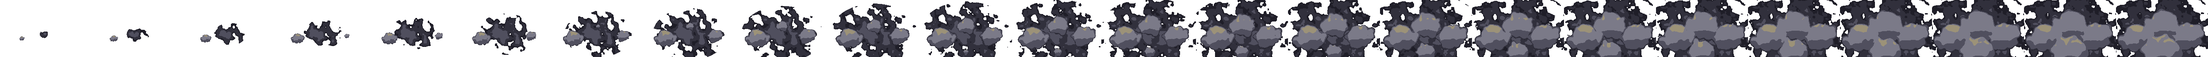
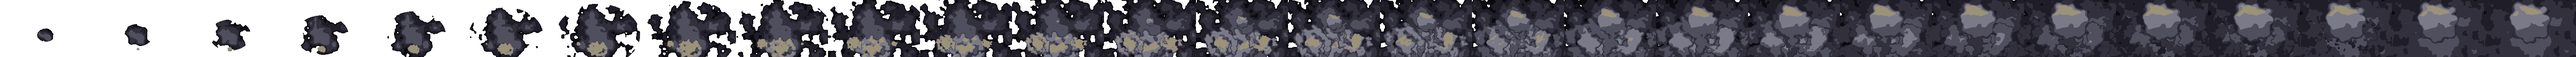
Camp trip smoke: a bigger, layered eruption (PixelLab VFX 'Camp smoke surge', 28 frames) instead of the flat clouds; 2.8 s each way

diff --git a/tools/art/gen_camp.py b/tools/art/gen_camp.py
@@ -123,7 +123,7 @@ def smoke_sheet():
 
 
 def cloud_sheet():
-    """art/camp/cloud_sheet.png: the VFX tool's 'Camp smoke cloud' (billows of dark smoke growing across the whole view until it is thick, one-shot, 24
+    """art/camp/cloud_sheet.png: the VFX tool's 'Camp smoke surge' (smoke erupting from the bottom of the view in layers of dark billows until it fills it, one-shot, 28
     frames, 10 fps, 208x130 shown at 2x over the 416x260 view) as one row of frames at full canvas size, blank frames at the end dropped. Played
     forward when the party leaves for camp (camp_transition.gd) and backward as they arrive. Palette-snapped. Source: pieces/camp/cloud.png + .json."""
     atlas = Image.open(PIECES / "cloud.png").convert("RGBA")

diff --git a/CLAUDE.md b/CLAUDE.md
@@ -207,7 +207,7 @@ So the overlay, HUD and level-complete scenes can be deleted from `main.tscn` wi
 
 **Making camp** (roadmap 7h.2; rules in `docs/combat_design.md` "Making camp"): `data/items/bedroll.tres` (`ItemDef.makes_camp`, consumable, stacks to 3) used from a hand, a quick slot or the pack goes through `Party.use_item` -> `Party._bedroll`, which asks `Party.camp_refusal()` (not in a fight, no living monster within 4 tiles or in sight within 12, no ambush trigger within 2; the refusal lines are narrator voice, 35 characters) and then `Camp.begin()` (`scripts/camp.gd`, a CanvasLayer 3 node `Camp` that `game_view.gd` adds, group `camp`). The camp screen covers the 3D view (near-black, a 2D fire from `art/camp/` with the same layers as the 3D camp, four bedroll buttons: click one and `inventory.show_screen(slot, true)` opens that hero's pack and sheet; the corner map is hidden meanwhile), `rest_to(fraction)` climbs HP (whole points, `Party.heal(..., "rest")`) and mana evenly over `REST_SECONDS` 30, `begin` clears shaken, sickness, recasts and a running meal (its remaining healing at once), `Party.camping` stops `_tick_lights`, `_tick_food`, mana regeneration and `light_field.gd`. It ends at 30 s, by Stop, by `Player.command` (`Camp.consumes_move`: any step or turn ends it and goes no further, with a 0.35 s lock) or when `Party.fight.in_fight` (interrupted), sends `GameEvents.camp_made` / `camp_ended(interrupted)` and saves (not when interrupted; `SaveGame.save` refuses the test room). Camp spots are STRUCTURES `{"kind": "camp_spot"}` (`DungeonMap.camp_spot_at`; ash from `wall_decor._camp_spot`) with no rule yet (7h.4 rolls interruptions by them); the map symbol, the interruption rolls, cooking, banter and level-up on the bedrolls (`Party.level_up_ready`, 7i) are not built. **Cooking** (7h.3): `ItemDef.cooks_into` / `can_cook()` on raw food (`raw_rat_meat` -> `cooked_rat_meat` 12 HP/6 s no sickness, `mouldy_bread` -> `toasted_bread` 9 HP/4 s no sickness); on the camp screen `Camp.cook_all()` (the COOK (n) button; `cookables()` finds every cookable stack, `_cook_next` swaps one every `COOK_STEP` 0.8 s) and `Camp.cook_held(cursor)` (food held on the cursor, click the fire: `fire_hit`); each cooking plays `sizzle` (`art/spells/cooking/sizzle_sheet`, the `sizzles` list drawn over the fire) and logs a line (`BURN_CHANCE` 0.15 burns it: cosmetic), `GameEvents.food_cooked(def, hero)`; nothing cooks outside a camp. Test room: the camp survival station, keys `,` (wound, drain and sicken the party) and `.` (camp without a bedroll), raw meat and mouldy bread by the fire; tests in `tests/smoke_test.gd` `_check_camp` / `_check_cooking` and `tests/test_room_test.gd`.
 
-**The safe campfire zone and the Hearth Coal** (built on request, not a numbered step; `scripts/camp_zone.gd`, `levels/camp_zone.gd`, `scripts/campfire_menu.gd`, `data/items/hearth_coal.tres`; test `tests/camp_zone_test.gd`): a Hearth Coal (`ItemDef.opens_camp_zone`, a CONSUMABLE, found once a level: floor 1 has one at (11,13)) used from a hand, quick slot or pack goes through `Party.use_item` -> `_hearth_coal`, which asks `CampZone.refusal` (not already at camp, then `Party.camp_refusal`: no fight, no monster close) and, if the party may, spends the coal and starts `CampZone.enter` at the end of the frame (so the coal has left its slot before the party is carried). `enter` snapshots the running game in memory (`SaveGame.serialize`: doors, piles, monsters, the player's tile and facing; `CampZone.snapshot`, never the save slot) and `RunState.change_level`s to `levels/camp_zone.gd`, a 9x9 room with a campfire, four bedrolls, four lit sconces and no monsters (the fire is the tile in front of the start). There the party can walk, rest, cook, use packs and sheets; the zone cannot be saved. **Left-clicking a campfire in front opens its pop-up** (`campfire_menu.gd`, `Player._click_campfire`): MAKE CAMP (rest, `Camp.begin`, no bedroll used), COOK (n) (camp, then `Camp.cook_all`; greyed when nothing is raw) and, in the zone only, BREAK CAMP: `CampZone.leave` lays the party's CURRENT state (and cursor) over the snapshot and loads it as `SaveGame.pending`, so the level returns exactly as it was (monsters, doors, tile, facing) with the party as rested; `save_manager.gd` says "The party breaks camp." (`from_camp`). **The trip has a show** (`scripts/camp_transition.gd`, a CanvasLayer 17 on the tree root so it outlives the scene change; art `art/camp/cloud_sheet.png`, the VFX tool's 'Camp smoke cloud', billows of dark smoke growing across the view, 24 frames at 10 fps, 208x130 shown at 2x over the 416x260 view): `CampZone.go` (the coal) and `CampZone.go_back` (BREAK CAMP) call `CampTransition.play(tree, callback)`: the game is paused while the smoke builds for 2.4 s and the view darkens in five flat steps (never a smooth fade), then the callback does `enter` / `leave`; the layer waits for the new scene's player and plays the dust backward as the view brightens, then unpauses and frees itself. A trip that falls through clears the dust where it stands. `CampTransition.skip` (tests) changes at once with no show. A campfire tile is solid (`DungeonMap.is_campfire`: the party and monsters cannot enter; sight and missiles pass). Events `camp_zone_entered` / `camp_zone_left`. `party.gd` loads `camp_zone.gd` with `load`, not `preload`, because it reaches `RunState`, which preloads `party.gd`.
+**The safe campfire zone and the Hearth Coal** (built on request, not a numbered step; `scripts/camp_zone.gd`, `levels/camp_zone.gd`, `scripts/campfire_menu.gd`, `data/items/hearth_coal.tres`; test `tests/camp_zone_test.gd`): a Hearth Coal (`ItemDef.opens_camp_zone`, a CONSUMABLE, found once a level: floor 1 has one at (11,13)) used from a hand, quick slot or pack goes through `Party.use_item` -> `_hearth_coal`, which asks `CampZone.refusal` (not already at camp, then `Party.camp_refusal`: no fight, no monster close) and, if the party may, spends the coal and starts `CampZone.enter` at the end of the frame (so the coal has left its slot before the party is carried). `enter` snapshots the running game in memory (`SaveGame.serialize`: doors, piles, monsters, the player's tile and facing; `CampZone.snapshot`, never the save slot) and `RunState.change_level`s to `levels/camp_zone.gd`, a 9x9 room with a campfire, four bedrolls, four lit sconces and no monsters (the fire is the tile in front of the start). There the party can walk, rest, cook, use packs and sheets; the zone cannot be saved. **Left-clicking a campfire in front opens its pop-up** (`campfire_menu.gd`, `Player._click_campfire`): MAKE CAMP (rest, `Camp.begin`, no bedroll used), COOK (n) (camp, then `Camp.cook_all`; greyed when nothing is raw) and, in the zone only, BREAK CAMP: `CampZone.leave` lays the party's CURRENT state (and cursor) over the snapshot and loads it as `SaveGame.pending`, so the level returns exactly as it was (monsters, doors, tile, facing) with the party as rested; `save_manager.gd` says "The party breaks camp." (`from_camp`). **The trip has a show** (`scripts/camp_transition.gd`, a CanvasLayer 17 on the tree root so it outlives the scene change; art `art/camp/cloud_sheet.png`, the VFX tool's 'Camp smoke surge', smoke erupting from the bottom of the view in layers of dark billows until it fills it, 28 frames at 10 fps, 208x130 shown at 2x over the 416x260 view): `CampZone.go` (the coal) and `CampZone.go_back` (BREAK CAMP) call `CampTransition.play(tree, callback)`: the game is paused while the smoke builds for 2.8 s and the view darkens in five flat steps (never a smooth fade), then the callback does `enter` / `leave`; the layer waits for the new scene's player and plays the dust backward as the view brightens, then unpauses and frees itself. A trip that falls through clears the dust where it stands. `CampTransition.skip` (tests) changes at once with no show. A campfire tile is solid (`DungeonMap.is_campfire`: the party and monsters cannot enter; sight and missiles pass). Events `camp_zone_entered` / `camp_zone_left`. `party.gd` loads `camp_zone.gd` with `load`, not `preload`, because it reaches `RunState`, which preloads `party.gd`.
 
 **Camp site** (`scripts/camp_site.gd`, art `art/camp/` from `tools/art/gen_camp.py`, PixelLab pieces in `tools/art/pieces/camp/`, logged in `docs/asset_log.md`): a level places one with a `STRUCTURES` entry `{"cell", "kind": "campfire"}` (`wall_decor.add_structures` builds it, group `camp_sites`). Scenery only so far: a pit of crossed logs, its front logs (`pit_front`), a kindling bed of sticks and coals (`kindling`) and a spit (billboards at `PIXEL` 0.022 world units an art pixel times `FIRE_SCALE` 1.45), an animated flame flipbook (8 frames, 10 fps, squeezed to `FLAME_WIDTH` 0.7) standing on the kindling, all of them layered toward the camera by `_face_camera` (pit, spit, flame, front logs, kindling) so the fire shows from every side and does not float, one bedroll for each of four hero positions (`camp.bedrolls`: **the user's patchwork sleeping bag, `art/camp/bed.png`** (175x70, top-down: the user's own PixelLab picture `tools/art/pieces/camp/bed2_reference.png`, a 3/4 view, redrawn top-down by `create_image_pixflux` as `bed2_top_2.png`, cropped and snapped to the palette by brightness without curse greens, bruise purples or bright torch colours: `bed2_sprite.png`; the earlier diamond-quilt bed's pieces `bed_sprite*.png`/`bed_top_*.png` are unused), wrapped over a plump rounded real-3D mat built in code (`camp_site._bed_mesh` from `_bed_height`: a fine 112 x 44 grid whose height is `BED_THICKNESS` 0.24 x sqrt(1 - a^4 - b^4), so the top swells in the middle and rolls down to the floor round every edge and corner, **with cloth on it**: the strapped roll at the left end bulging `ROLL_BULGE` 1.3 x with a crease where it meets the patchwork, each patch puffed `PATCH_PUFF` 16% on its own with the seams staying low (**`PATCH_X` / `PATCH_Y` are the seams drawn in the picture, in its pixels: change them with the picture**), and soft wrinkles `WRINKLE`; normals from the slope so the fire picks out every swell), standing on the floor, shaded so the fire lights it, **fixed in place: nothing tilts or turns it toward the camera** (earlier versions failed: a billboard of a 3/4 picture stood up in the air like a slab, and a per-frame tilt made the beds swing and look afloat as you moved), turned once so the strapped roll points at the flames, with a gentle tint per hero (`BED_TINT` 0.45 of their blanket colour)) and, if that file is missing, the older real 3D rounded bed, no box edges: a squashed-capsule mat, a puffy squashed-capsule quilt with the drawn `quilt.png` top, a squashed-sphere pillow and a rolled blanket capsule at the foot, lying on the floor with the head away from the fire, shaded so the fire lights them) and a flickering `torch.gd` light in `sprite_lights` (so the fire lights the party's tile for the dark rule). There are no rocks (removed after a playtest). The first bedrolls were billboards and floated. Not clickable and not a camp yet: making camp is 7h.2, cooking 7h.3. The test room's campfire station is at (21,21). The generator maps the VFX flame's colours onto the torch and rust ramps by lightness (a plain palette snap flattened it).
 

diff --git a/docs/asset_log.md b/docs/asset_log.md
@@ -294,3 +294,6 @@ None of these were made with the VFX suite, so they should be replaced.
 
 ## Camp smoke cloud (the Hearth Coal's trip, redone cloudier, 22 Nov 2026, 0 generations: the VFX tool is free)
 - Replaces 'Camp dust' (dust motes) above, whose files are gone (`art/camp/dust_sheet.*`, `pieces/camp/dust.*`): `art/camp/cloud_sheet.png` (+ `.json`; 24 frames of 208x130, 10 fps, a one-shot), built from scratch in the VFX tool: an eroded `noise` bank plus four `puffs` clouds starting at staggered times, dark smoke greys on the palette's own ramp with a dusty tan highlight, billowing out until they fill the view. Saved to My effects as 'Camp smoke cloud' (id `7224b98c-e20d-419e-b8de-8164fd9bed74`). Source atlas `tools/art/pieces/camp/cloud.png` + `.json`; `gen_camp.cloud_sheet` slices it whole. Played by `camp_transition.gd` as before (forward on leaving, backward on arriving).
+
+## Camp smoke surge (the Hearth Coal's trip, bigger and more dramatic, 22 Nov 2026, 0 generations: the VFX tool is free)
+- Replaces 'Camp smoke cloud' above (same file names, `art/camp/cloud_sheet.png`, now 28 frames of 208x130 at 10 fps): rebuilt in the VFX tool as an eruption: a dark eroded `noise` bank on its own near-black 'deep' ramp, then three `puffs` bursts (`mode burst`, a hot tan flash then masses thrown out, rising and growing) from the bottom centre and both sides, and a big `cloud` of billows over the top, ending as thick layered dark smoke over the whole view. Saved to My effects as 'Camp smoke surge' (id `00a614ca-b304-4882-b3cd-870adba7d64c`). Source atlas `tools/art/pieces/camp/cloud.png` + `.json`. The trip's smoke now takes 2.8 s each way.
